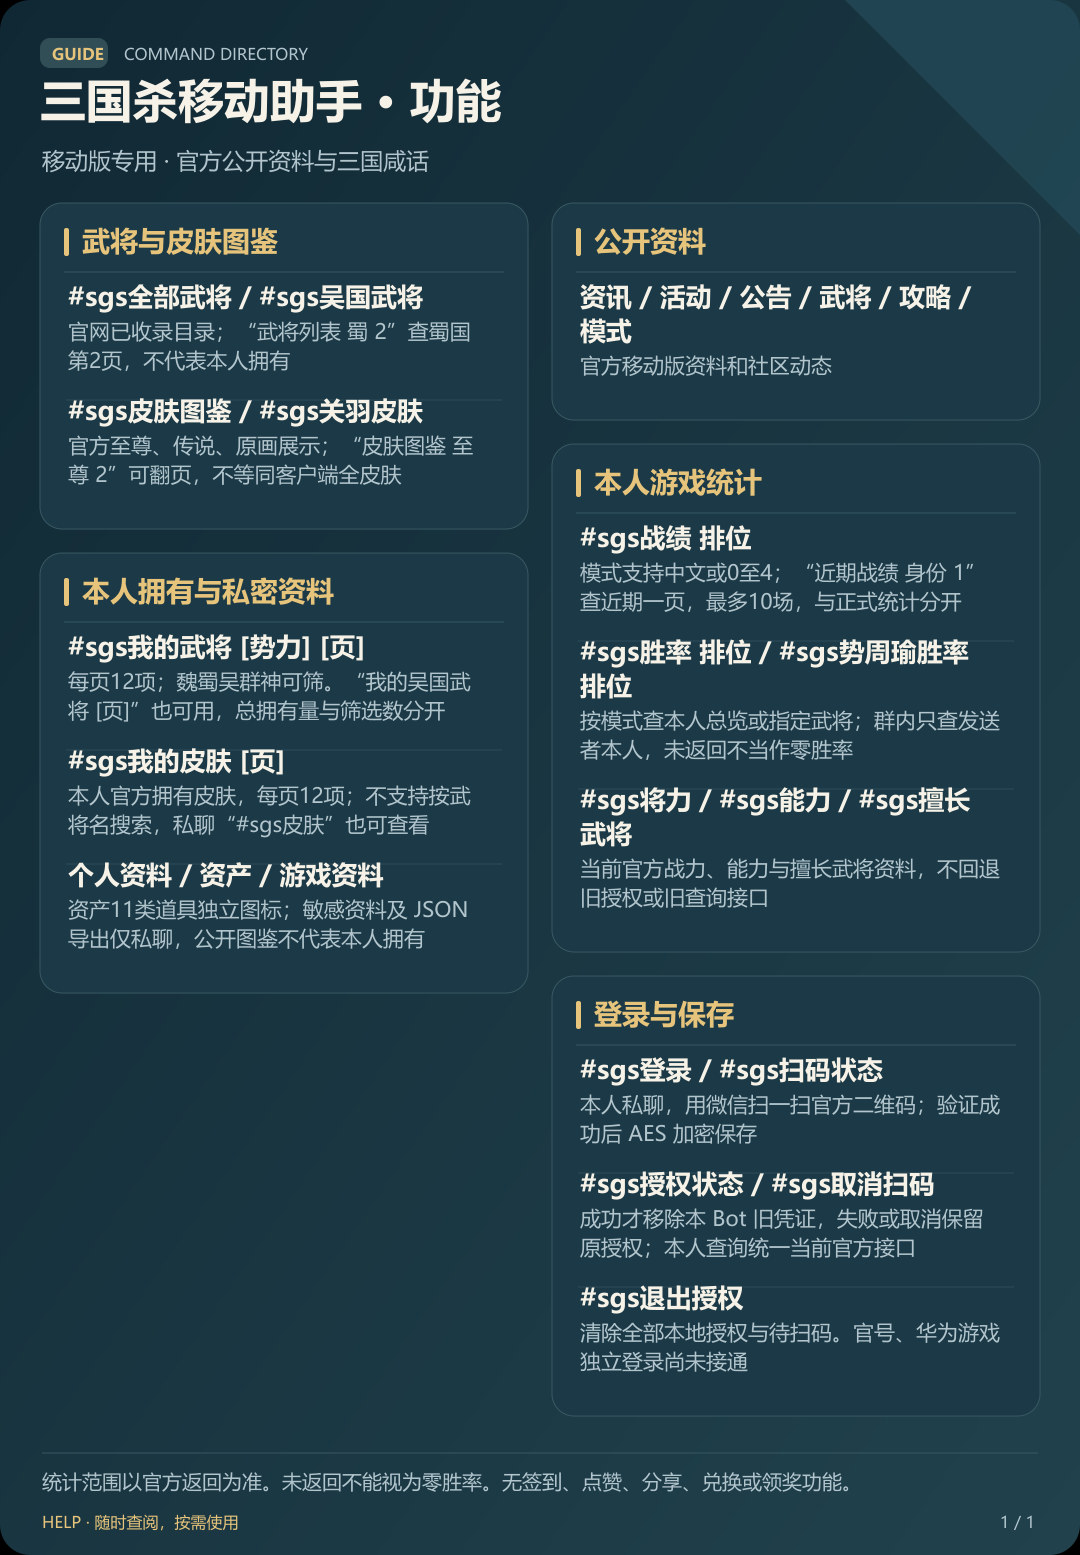
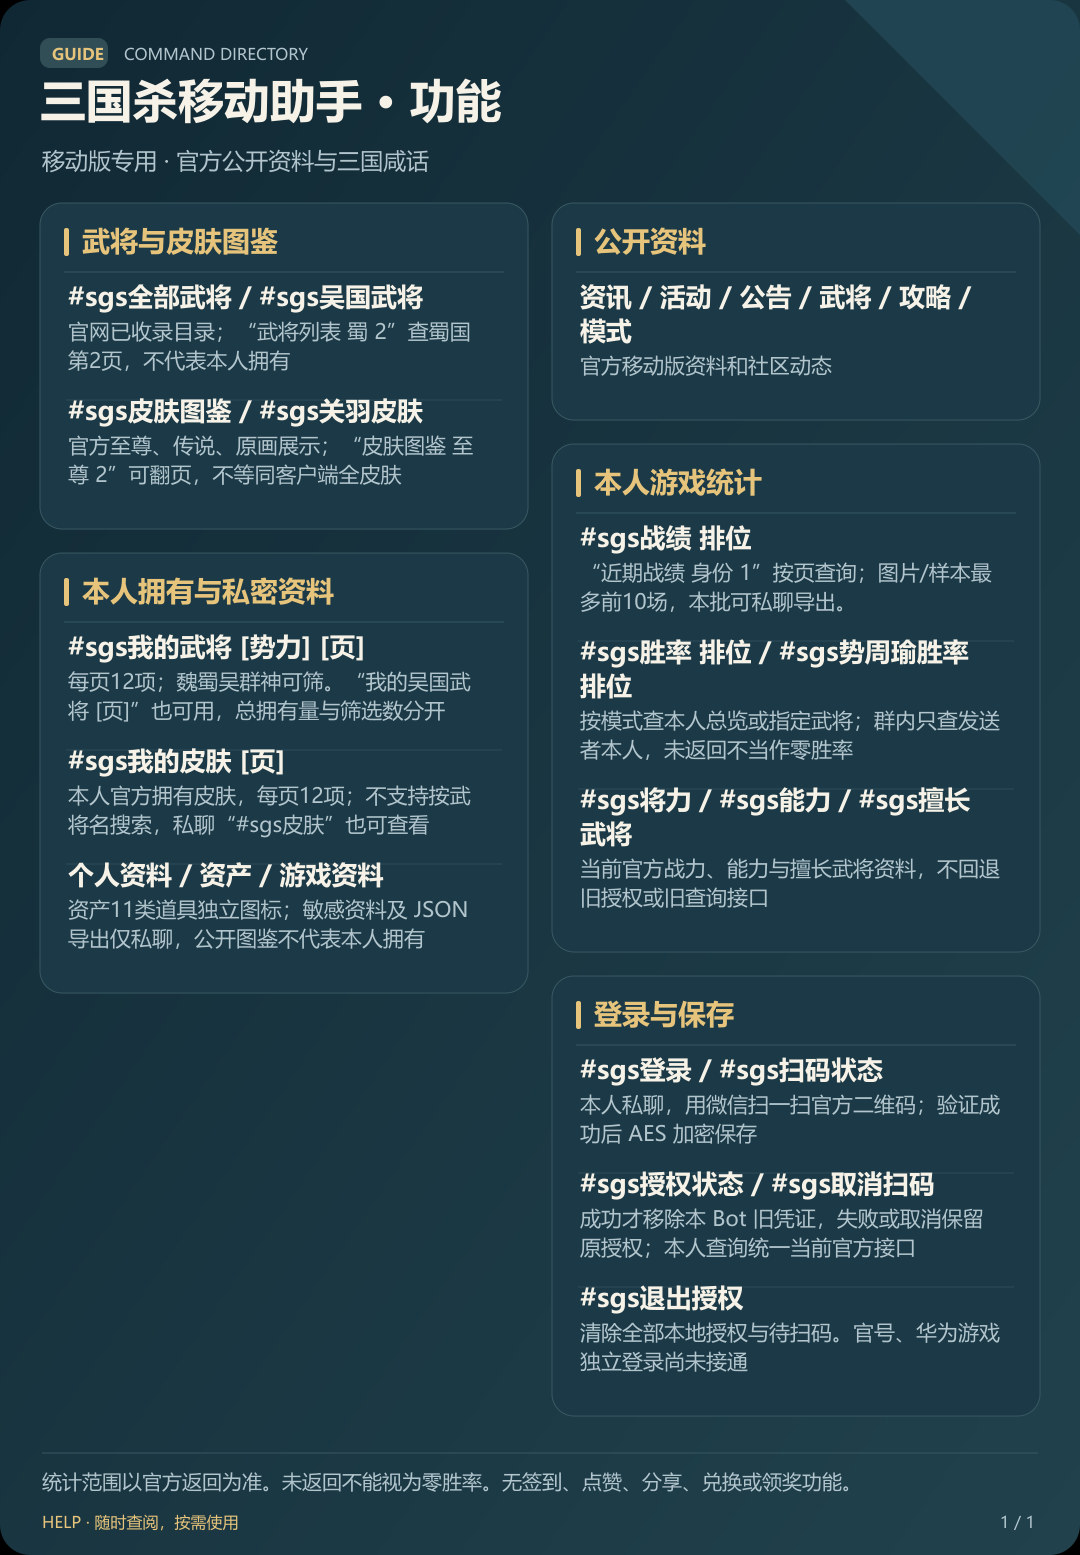
Handle larger official recent-record batches without rejecting win rates

Changed region(s): [[0.5194, 0.3395, 0.9167, 0.4013]]

diff --git a/README.md b/README.md
@@ -62,7 +62,7 @@ TRSS/云崽：将本目录安装到 Bot 的 `plugins/SGS-Mobile-Plugin`，在插
 
 本人皮肤视图的配图仅从本次响应给出的官方公开资源固定域名与固定目录匿名读取，不发送账号凭据，拒绝重定向和查询参数，沿用图片大小、像素、并发与超时限制；图片和渲染结果只在内存，不保存本人收藏图库。武将仅使用唯一官方名称匹配的本地头像，不按本人内部 ID 猜配图。资源缺失时显示占位，不借用其他武将或皮肤。
 
-胜率和战绩模式可用 `全部/0`、`排位/1`、`身份/2`、`国战/3`、`斗地主/4`，如 `#sgs势周瑜胜率排位`。战绩图展示所选模式的官方正式统计，以及单独计算的本模式近期本页样本胜率；近期每页最多10条，不能代替完整历史。所选模式会映射为当前官方接口的模式参数，页面不混用其他模式的胜场或分母。
+胜率和战绩模式可用 `全部/0`、`排位/1`、`身份/2`、`国战/3`、`斗地主/4`，如 `#sgs势周瑜胜率排位`。战绩图展示所选模式的官方正式统计，以及单独计算的本模式近期本批前10条样本胜率；近期图片最多展示本批前10条，不能代替完整历史。官方即使收到size=10也可能返回更多，本批完整安全结果可私聊导出。所选模式会映射为当前官方接口的模式参数，页面不混用其他模式的胜场或分母。
 
 指定武将按所选模式读取官方擅长武将胜场/场次，不用其他模式或近期使用列表回填；默认查询全部模式。官方未证实完整武将生涯胜率端点，没有返回的武将不当作 0%。胜率命令末尾也可加 `导出`，仅在本人私聊导出已筛选的统计字段。
 
@@ -79,7 +79,7 @@ TRSS/云崽：将本目录安装到 Bot 的 `plugins/SGS-Mobile-Plugin`，在插
 
 生成二维码时保留原本地授权记录。本人校验成功后，才以一次加密写入替换主会话并移除本 Bot 旧凭证、旧待扫码和新版待扫码内容。过期、失败或取消扫码保留原本地授权记录；停止支持的旧协议不会因此恢复查询。旧扫码入口已移除，`#sgs扫码状态` 只处理当前微信扫码请求；旧待扫码请求不能继续交换凭据。
 
-当前本人查询统一使用微信社区会话和当前官方接口。本人拥有分页已在内存逐页核验拥有标志、计数与边界，Bot 每次仍只读取当前页；战绩与近期本页分别展示范围，不宣称覆盖全部 APP 信息或完整对局历史。二维码期限使用服务器 `expireIn`，会话有效期以官方实际响应为准。
+当前本人查询统一使用微信社区会话和当前官方接口。本人拥有分页已在内存逐页核验拥有标志、计数与边界，Bot 每次仍只读取当前页；战绩与近期本批样本分别展示范围，不宣称覆盖全部 APP 信息或完整对局历史。二维码期限使用服务器 `expireIn`，会话有效期以官方实际响应为准。
 
 CLI 输出文本和 JSON 到终端，不自动创建明文本人 JSON 文件或二维码图文件；授权状态仍由加密库管理。CLI 遇到二维码会提示去 Bot 私聊获取。Bot 在内存中生成二维码、通过 Buffer 发送个人 JSON 文件，不写插件明文临时文件；超过 8 MiB 的原始 JSON 在内存中 gzip，发送 `.json.gz`，压缩后仍超过内存上传上限则拒绝。协议端不支持好友文件发送时会明确提示。自行保存终端输出或收到的个人文件时，由本人管理访问权限。
 

diff --git a/docs/FEATURES.md b/docs/FEATURES.md
@@ -47,8 +47,8 @@
 | `#sgs资产` | `gameProperty`：11类道具独立图标；缺失不填0 | 否 |
 | `#sgs将力 [模式]` | `gameForce`：综合/斗地主/排位/国战/身份五项战力；未解释字段保留原名 | 是，本人 |
 | `#sgs能力` | `gameGeneralAbilities`：官方能力返回值，不猜字段含义 | 是，本人 |
-| `#sgs战绩 [模式]` | `gameCareerUserInfo` 正式统计，另展示本模式近期本页样本 | 是，本人 |
-| `#sgs近期战绩 [模式] [页]` | `gameRecordList/total`：官方每页最多10场，只显示本人明确武将及本人结果 | 是，本人 |
+| `#sgs战绩 [模式]` | `gameCareerUserInfo` 正式统计，另展示本模式近期本批前10条样本 | 是，本人 |
+| `#sgs近期战绩 [模式] [页]` | `gameRecordList/total`：图片最多展示本批前10场，只显示本人明确武将及本人结果 | 是，本人 |
 | `#sgs擅长武将 [模式]` | `gameBestGeneralNew`：所选模式的官方擅长武将子集，不能当作拥有目录 | 是，本人 |
 | `#sgs胜率 [模式]`、`#sgs势周瑜胜率排位`、`#sgs胜率 势周瑜 身份` | 总览/指定武将的当前模式胜场与场次；缺失不当作0%，不跨模式回填 | 是，本人 |
 | `#sgs我的武将 [势力] [页]`、`#sgs我的吴国武将 [页]` | `gameGeneral/total`：官方拥有武将，每页12项；势力魏/蜀/吴/群/神 | 否 |
@@ -56,7 +56,7 @@
 
 `#sgs皮肤 [数字页码]` 等同对应页的 `#sgs我的皮肤`；`#sgs武将收藏` 是 `#sgs我的武将` 的兼容命令，已删除旧社区“我的喜欢”接口，不再表示社区点赞收藏。公开 `#sgs关羽皮肤` 与本人拥有列表是不同来源。
 
-模式支持 `全部/0`、`排位/排位赛/1`、`身份/身份场/2`、`国战/3`、`斗地主/欢乐斗地主/4`。Bot编号映射为当前官方 `mode` 的 `0/4/1/2/3`；传输参数不会直接套旧模式编号。近期统计只含当前官方一页最多10条，未知结果排除，不能代表完整战绩胜率。指定武将只在所选模式的擅长武将子集中精确匹配；神、界、势保持区分。总览、分项比例和近期样本分别标明范围。
+模式支持 `全部/0`、`排位/排位赛/1`、`身份/身份场/2`、`国战/3`、`斗地主/欢乐斗地主/4`。Bot编号映射为当前官方 `mode` 的 `0/4/1/2/3`；传输参数不会直接套旧模式编号。近期图片/样本只取本批前10条，未知结果排除，不能代表完整战绩胜率。请求size=10不保证官方只返回10条；插件有界接受最多100条安全结果，私聊JSON导出保留完整本批。指定武将只在所选模式的擅长武将子集中精确匹配；神、界、势保持区分。总览、分项比例和近期样本分别标明范围。
 
 拥有页分别显示 `have` 全部拥有、`searchNum` 当前筛选匹配、原 `total` 游戏总数及本页条数；下一页保留武将势力。全页 RAM 核验确认拥有标志严格true、计数稳定、ID无重复及首末页/越界边界；Bot实际每条命令只取当前12项。无效条目或计数不一致整页拒绝，不静默过滤后称完整。内部 `id/generalId` 不猜配公开图鉴。皮肤原画匿名读取固定官方资源目录，仅留本次内存；品质小标不冒充皮肤原画。
 

diff --git a/docs/API-AUDIT.md b/docs/API-AUDIT.md
@@ -25,12 +25,12 @@ Bot使用 `#sgs登录` 生成本地编码的官方二维码，`#sgs扫码状态`
 | assets | `/user/gameProperty` | 11类官方道具字段；缺失不填0 |
 | force | `/user/gameForce` | 五项官方战力，未解释字段保留原名 |
 | records | `/user/gameCareerUserInfo` | 当前模式正式生涯统计 |
-| recent | `/user/gameRecordList/total` | 当前模式近期分页，每页最多10条 |
+| recent | `/user/gameRecordList/total` | 当前模式近期批次，图片/样本最多前10条 |
 | abilities | `/user/gameGeneralAbilities` | 官方能力响应，不从缩写猜中文含义 |
 | bestGeneral | `/user/gameBestGeneralNew` | 当前模式的擅长武将子集 |
 | ownedGenerals / ownedSkins | `/user/gameGeneral/total` | 本人拥有武将/皮肤官方分页，每页12条 |
 
-Bot模式编号 `0全部/1排位/2身份/3国战/4斗地主` 映射为当前官方 `mode` 的 `0/4/1/2/3`，不能把Bot编号直接作为旧协议参数沿用。近期请求以当前模式和页码调用，展示官方模式名、秒级时间转换的上海时间、本人结果及明确属于本人武将的名字/头像；不输出其他玩家列表。正式统计与近期本页样本胜率分别显示，未知结果排除，不把一页样本说成完整历史。指定武将胜率仅取当前模式官方擅长列表的精确匹配，不跨模式或用近期使用列表回填。
+Bot模式编号 `0全部/1排位/2身份/3国战/4斗地主` 映射为当前官方 `mode` 的 `0/4/1/2/3`，不能把Bot编号直接作为旧协议参数沿用。近期请求以当前模式和页码调用，展示官方模式名、秒级时间转换的上海时间、本人结果及明确属于本人武将的名字/头像；不输出其他玩家列表。正式统计与近期本批前10条样本胜率分别显示，未知结果排除，不把当前批次说成完整历史。实际授权只读复核发现请求size=10时部分模式会返回超过10条；官方APP直接接收list，H5没有相同size约束，因此不能承诺服务器每页上限10。插件接受最多100条的有界安全投影，图片和头像准备只取前10条，本人私聊导出保留完整本批JSON。相邻page=1/2已在内存验证返回不同有序批次，因此保留按官方页码请求的命令；size不是响应条数上限。指定武将胜率仅取当前模式官方擅长列表的精确匹配，不跨模式或用近期使用列表回填。
 
 官方资产字段为元宝、将魂、雁翎、招募令、雁翎甲、史诗宝珠、点将卡、欢乐豆、手气卡、心愿积分、银币。`game_force` 的五项为综合、斗地主、排位、国战、身份战力；官方图表轴8000不是数值上限。`general_power` 暂无已核实中文标签，保留原字段名，不据此直接宣称将力或排名。字段标签、百分比与缺失值处理见 [PERSONAL-FIELDS.md](PERSONAL-FIELDS.md)。
 

diff --git a/docs/PERSONAL-FIELDS.md b/docs/PERSONAL-FIELDS.md
@@ -27,7 +27,7 @@
 
 `records.rate` 的有效契约为0至1的比例，按官方UI乘100并加百分号，最多显示两位小数；原始JSON保留官方比例。正式胜率图与胜率命令优先使用有效`winGames/totalGames`，总场次0标为暂无记录，缺失或不一致的分母不伪造0%。官方角色分项`rates[].rate`同样按比例×100显示，仅接受已核实的模式角色标签；未知分项不猜译。
 
-游戏资料的排位、斗地主及总胜率分别按 `rankWin/rankNum*100`、`douDiZhuWin/douDiZhuTotal*100`、`totalWin/totalGame*100` 截断为整数；只有数值有效、分母大于0且胜场不超过场次时显示。近期结果0为胜、1为负，其余为未知；未知不参与近期样本胜率，且最多只统计官方当前一页10场。近期记录不是完整历史，也不能替代正式战绩胜率。
+游戏资料的排位、斗地主及总胜率分别按 `rankWin/rankNum*100`、`douDiZhuWin/douDiZhuTotal*100`、`totalWin/totalGame*100` 截断为整数；只有数值有效、分母大于0且胜场不超过场次时显示。近期结果0为胜、1为负，其余为未知；未知不参与近期样本胜率，且图片/样本只取本批前10场。官方请求size=10仍可能返回更多，插件有界接收最多100条安全投影，本批完整JSON可私聊导出。近期记录不是完整历史，也不能替代正式战绩胜率。
 
 Bot模式 `0全部/1排位/2身份/3国战/4斗地主` 对应当前官方 `mode=0/4/1/2/3`。查询和显示都保留所选模式；指定武将只精确匹配该模式的官方擅长列表，神、界、势不合并，不跨模式补值或把未返回武将当零胜率。
 

diff --git a/docs/CREDITS.md b/docs/CREDITS.md
@@ -18,7 +18,7 @@
 | [xh.sanguosha.cn](https://xh.sanguosha.cn/web/2) | `/web/api/auth/login`、`/web/api/auth/logout` | 官方扫码票据交换网页会话与注销；不承诺注销其他官方客户端 |
 | [api-xh.sanguosha.cn](https://xh.sanguosha.cn/web/2) | `/user/userInfo`、`gameSummary`、`getAllOtherGameUser` | 当前本人身份校验、游戏概览、其他游戏角色映射，不代表官号/华为游戏认证 |
 | 同上 | `/user/generalGameInfo`、`gameProperty`、`gameForce`、`gameGeneralAbilities` | 当前本人游戏资料、11类资产、官方战力与能力；未解释字段不猜译 |
-| 同上 | `/user/gameCareerUserInfo`、`gameRecordList/total`、`gameBestGeneralNew` | 所选模式正式统计、近期每页10条和擅长武将子集；不当作完整历史或全部拥有 |
+| 同上 | `/user/gameCareerUserInfo`、`gameRecordList/total`、`gameBestGeneralNew` | 所选模式正式统计、近期本批前10条图片/样本和擅长武将子集；不当作完整历史或全部拥有 |
 | 同上 | `GET /user/gameGeneral/total` | 当前本人拥有武将/皮肤，每页12项；武将支持魏/蜀/吴/群/神筛选，已逐页授权验证拥有标志、计数、去重和边界 |
 
 当前所有个人查询使用`pc-scan-v7`；旧APP扫码和旧个人查询协议已删除。`#sgs皮肤`无参数兼容“我的皮肤”，`#sgs武将收藏`兼容“我的武将”，旧社区喜欢接口已删除。历史研究记录不列为当前已连接API，见 [早期验收记录](VERIFICATION.md)。没有接入手机验证码/密码登录，没有调用未核实游戏绑定或华为游戏授权端点。
